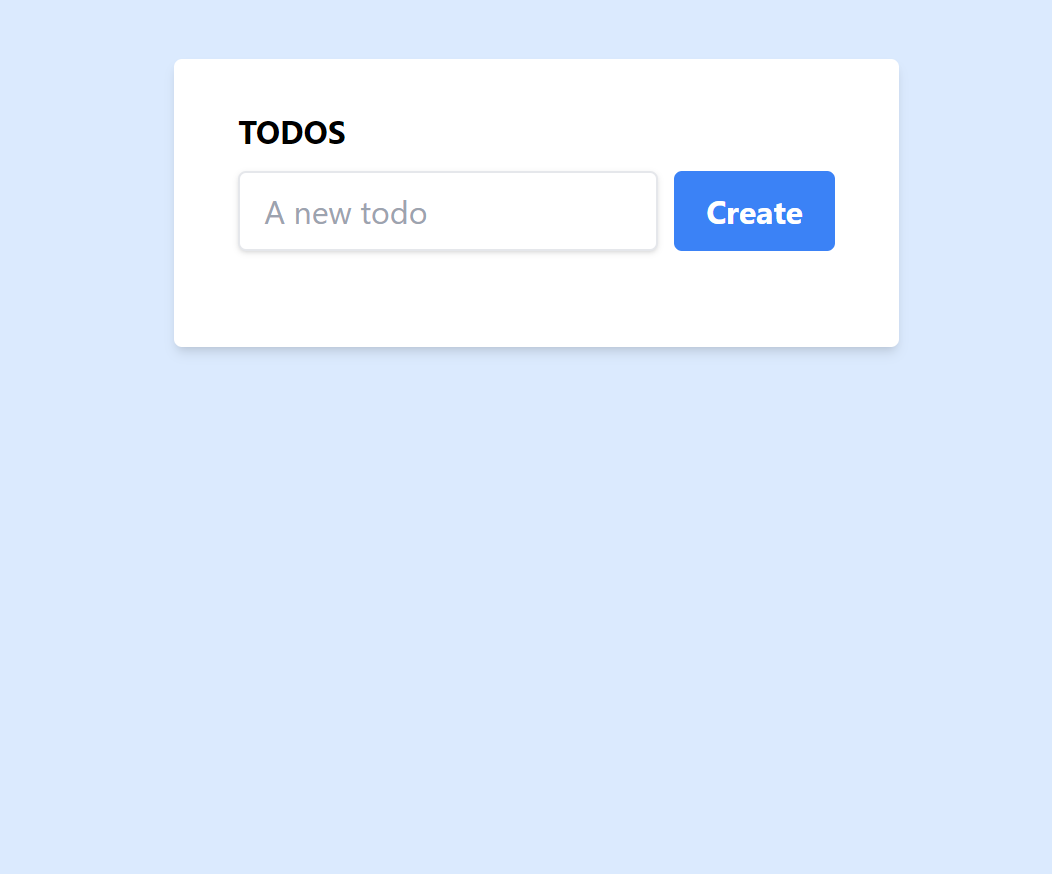
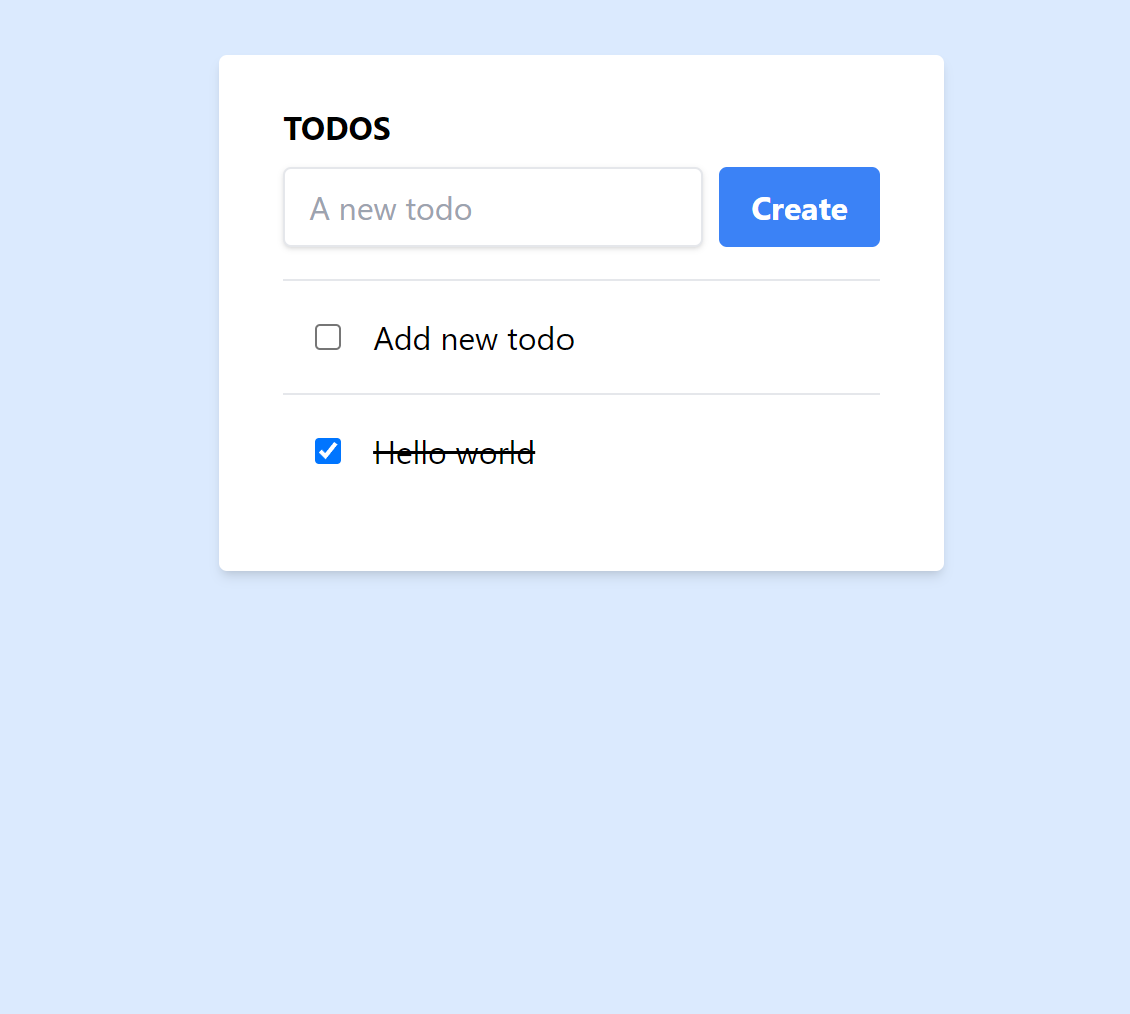
image added

Changed region(s): [[0.1521, 0.0309, 0.8517, 0.587], [0.6084, 0.1545, 0.7909, 0.3089]]

diff --git a/README.md b/README.md
@@ -1,5 +1,8 @@
-# 👷 `worker-template` Hello World
+# 👷 `worker-app` TODOS
 
+![image](./img.png)
+
+...
 A template for kick starting a Cloudflare worker project.
 
 [`index.js`](https://github.com/cloudflare/worker-template/blob/master/index.js) is the content of the Workers script.
